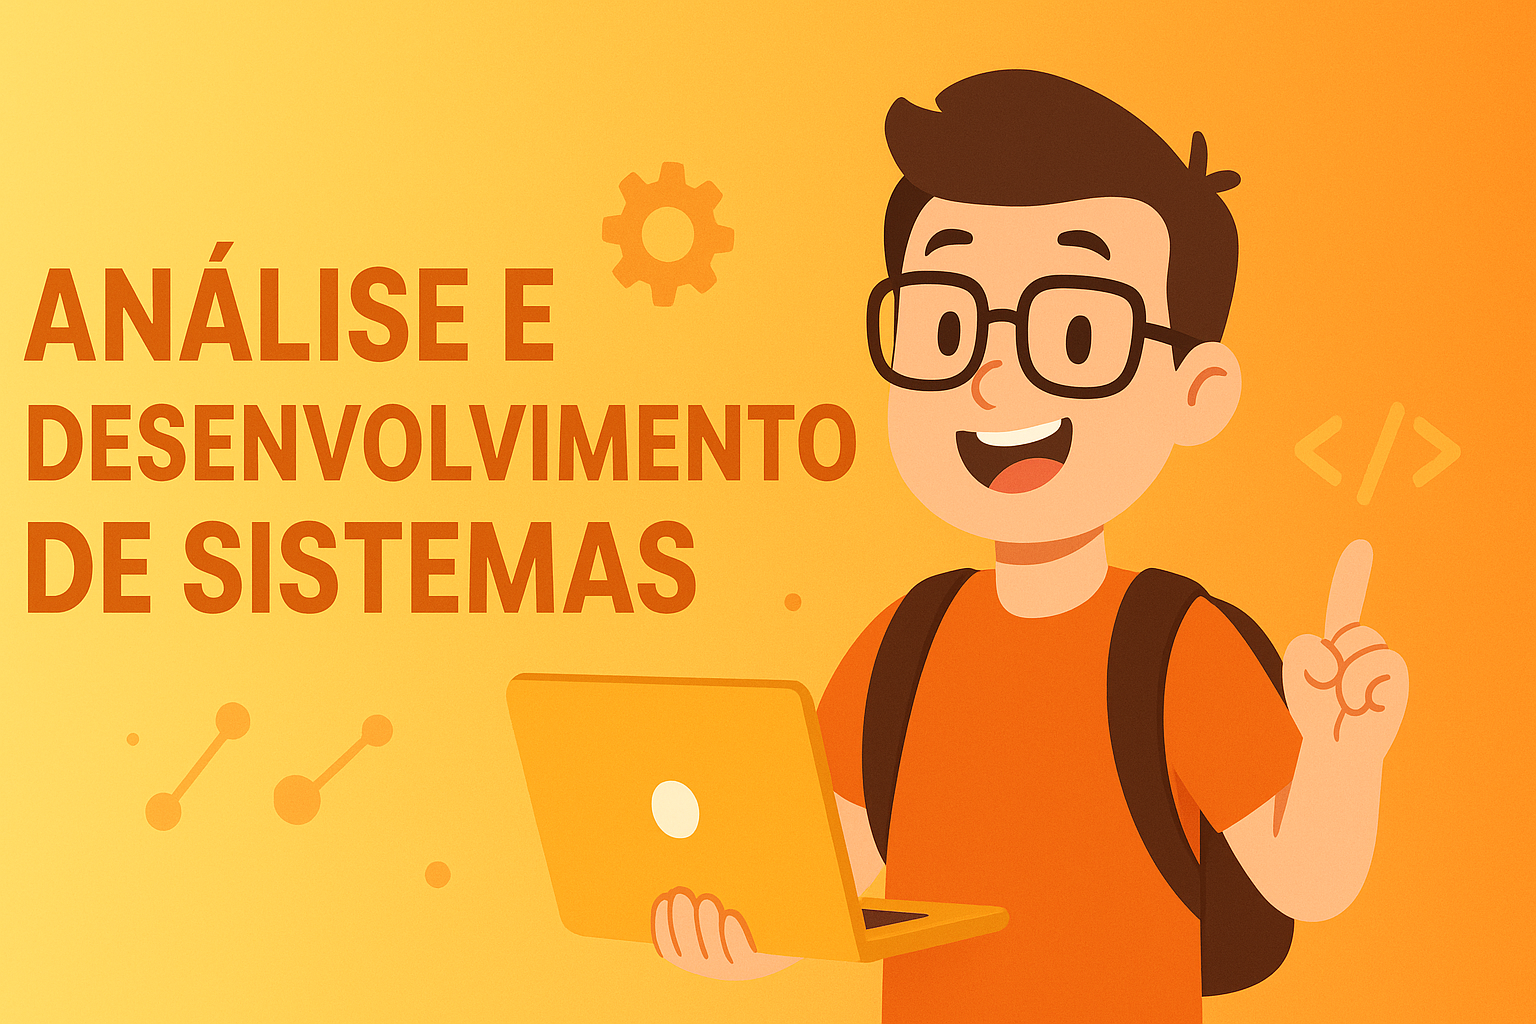
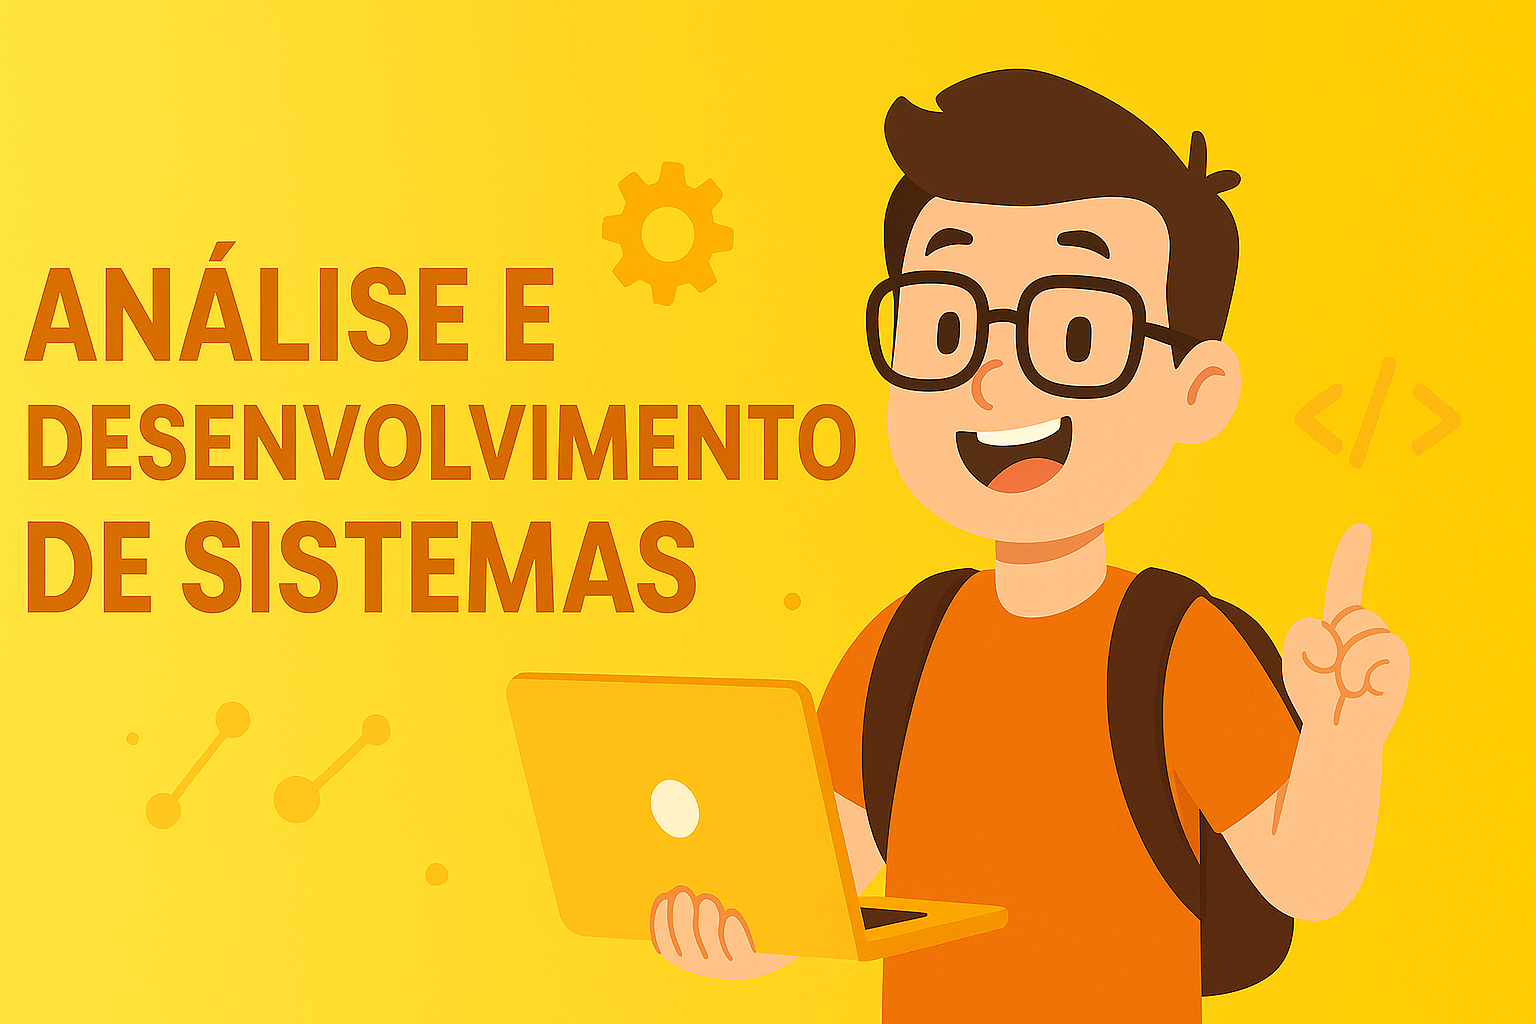
Add files via upload

diff --git a/index.html b/index.html
@@ -101,6 +101,7 @@
     html{
         scroll-behavior: smooth;
     }
+
 </style>
 <body>
     <figure style="margin: 0px; padding: 0px; cursor:default; border-left: 0px; border-right: 0px; border-style: solid; border-color: #FFCD24;">
@@ -108,7 +109,7 @@
             <img src="ICONES/fotoTurma.jpg" alt="" id="imgFundo">
         </div>
         <div style="height: 50px; position: absolute; top: 160px; text-align: center; width: 100%;">
-            <figcaption style="font-size: 150px; font-family:'Franklin Gothic Medium', 'Arial Narrow', Arial, sans-serif; color: rgb(26, 26, 26);"><b style="margin: auto; "><a href="#" style="text-decoration: none; color: #FFCD24; ">PRONATEC</a></b></figcaption>
+            <figcaption style="font-size: 150px; font-family:'Franklin Gothic Medium', 'Arial Narrow', Arial, sans-serif; color: rgb(26, 26, 26);" id="title"><b style="margin: auto; "><a href="#" style="text-decoration: none; color: #FFCD24; ">PRONATEC</a></b></figcaption>
         </div>
         <div style="width: 100%; height: 50px; position: absolute; top: 310px; text-align: center;">
             <figcaption style="color: rgb(255, 255, 255); font-family: 'Gill Sans', 'Gill Sans MT', Calibri, 'Trebuchet MS', sans-serif; font-size: 16px;"><b><a href="#" style="text-decoration: none; color: rgb(255,255,255);">Análise e Desenvolvimento de Sistemas.</a></b></figcaption>
@@ -134,7 +135,7 @@
                     <a href="https://www.youtube.com/cursoemvideo" target="_blank"><button class="botao">Guanabara</button></a>
                 </div>
                 <div>
-                    <a href="https://pt.wikipedia.org/wiki/Cookie_(inform%C3%A1tica)" target="_blank"><button class="botao">Política de Cookies</button></a>
+                    <a href="inscricao.html"><button class="botao" style="color: #FFCD24;">Inscreva-se já</button></a>
                 </div>
                 <div>
                     <a href="https://sistec.mec.gov.br/login/login" target="_blank"><button class="botao">Portal do Aluno</button></a>
@@ -144,7 +145,7 @@
     </header>
     <div style="text-align: center; padding: 15px; padding-bottom: 15px; background-color: #F6F6F6;">
         <img src="ICONES/logoPronatec.png" alt="" style="cursor: pointer; width: 200px;" class="animacao">
-        <img src="ICONES/logoCedup.png" alt="" class="animacao">
+        <img src="ICONES/logoCedup.png" alt="" class="animacao" style="cursor: pointer;">
     </div>
     
     <div style="overflow: hidden; margin-top: 50px; ">
@@ -177,7 +178,7 @@
         </div>
         
     </div>
-    <div style=" height: 700px; width: 100%; display: inline-flex; background: linear-gradient(90deg,rgba(255, 219, 102, 1) 0%, rgba(255, 144, 31, 1) 100%); width: 100%; box-shadow: 5px 5px 5px rgba(0, 0, 0, 0.174);" id="db">
+    <div style=" height: 700px; width: 100%; display: inline-flex; background: linear-gradient(90deg,rgba(255, 219, 102, 1) 0%, #FFCD01 100%); width: 100%; box-shadow: 5px 5px 5px rgba(0, 0, 0, 0.174);" id="db">
         <div style="padding-left: 210px; padding-top: 3%;">
             
             <div style="width: 600px; text-align: justify; font-size: 18px;">
@@ -222,14 +223,14 @@
                     <a href="https://www.youtube.com/cursoemvideo" target="_blank"><button class="botao">Guanabara</button></a>
                 </div>
                 <div>
-                    <a href="https://pt.wikipedia.org/wiki/Cookie_(inform%C3%A1tica)" target="_blank"><button class="botao">Política de Cookies</button></a>
+                    <a href="inscricao.html"><button class="botao">Inscreva-se já</button></a>
                 </div>
                 <div>
                     <a href="https://sistec.mec.gov.br/login/login" target="_blank"><button class="botao">Portal do Aluno</button></a>
                 </div>
             </div>
             <div style="margin-top: 30px; color: rgb(26, 26, 26);">
-                <p style="font-family: 'Gill Sans', 'Gill Sans MT', Calibri, 'Trebuchet MS', sans-serif; font-weight: 700; font-size: 14px;" id="fone">Fone: (49) 99999-9999 | example@gmail.com <br>R. Assis Brasil, 119 - Maria Goretti, <br>Chapecó - SC, 89801-355</p>
+                <p style="font-family: 'Gill Sans', 'Gill Sans MT', Calibri, 'Trebuchet MS', sans-serif; font-weight: 700; font-size: 14px;" id="fone">Fone: (49) 2049-7796 | cedupchapeco@sdr.sc.gov.br <br>R. Assis Brasil, 119 - Maria Goretti, <br>Chapecó - SC, 89801-355</p>
             </div>
             <footer>
                 <p style="font-family: 'Gill Sans', 'Gill Sans MT', Calibri, 'Trebuchet MS', sans-serif;"><i>@_matheus.049</i></p>

diff --git a/inscricao.html b/inscricao.html
@@ -1,0 +1,86 @@
+<!DOCTYPE html>
+<html lang="pt-br">
+<head>
+    <meta charset="UTF-8">
+    <meta name="viewport" content="width=device-width, initial-scale=1.0">
+    <title>Cadastro</title>
+    <link rel="shortcut icon" href="ICONES/logoPronatec.png" type="image/x-icon">
+    <style>
+        body{
+            background: linear-gradient(90deg,rgba(255, 219, 102, 1) 0%, rgba(255, 144, 31, 1) 100%); 
+            background-image: url(ICONES/banne2.png);
+            background-repeat: no-repeat;
+            background-size: 100%;
+        }
+        .input{
+            border:0;
+            border-radius: 5px;
+            width: 400px;
+            height: 40px;
+            font-size: 18px;
+            padding-left: 20px;
+        }
+        .animacao:hover{
+            transform: scale(1.05);
+        }
+        .animacao{
+            transition: transform 0.2s ease;
+        }
+        header{
+        position: fixed;
+        top: 0;
+        left: 0;
+        background-color: rgb(255, 255, 255);
+        width: 100%;
+        height: 55px;
+        box-shadow: 5px 5px 5px rgba(0, 0, 0, 0.304);
+        }
+        #logoCedup{
+        width: 260px;
+        margin-top: 3px;
+        }
+        .botao{
+        background-color: rgba(240, 248, 255, 0);
+        border: 0px;
+        font-family:'Gill Sans', 'Gill Sans MT', 'Calibri', 'Trebuchet MS', sans-serif;
+        font-weight: 700;
+        color: rgb(26, 26, 26);
+        margin-left: 10px;
+        margin-right: 10px;
+        transition: transform 0.2s ease;
+        cursor: pointer;
+        font-size: 18px;
+        }
+        .botao:hover{
+        transform: scale(1.05);
+        color:#012c81;
+        }
+    </style>
+</head>
+<body>
+    <header style="background-color: #F6F6F6;">
+        <div id="divCoife">
+            <a href="index.html"><img src="ICONES/logoPronatec3.png" alt="" id="logoCedup" style="cursor: pointer;"></a>
+            <div style="display: inline-flex; margin-top: 15px;">
+                <div>
+                    <a href="index.html"><button class="botao">Página inicial</button></a>
+                </div>
+            </div>
+        </div>
+    </header>
+    <div id="main" style="width: 500px; height: 500px; background: linear-gradient(45deg, rgb(255, 195, 31), rgb(250, 198, 54)); margin: auto; box-shadow: 5px 5px 5px rgba(0, 0, 0, 0.144); border-radius: 10px; margin-top: 10%; text-align: center;">
+        <div >
+            <img src="ICONES/logoCedup.png" alt="" style="margin-top: 20px;">
+        </div>
+        <div style="text-align: center;">
+            <input type="text" class="input" style="margin-top: 20px; " placeholder="Nome Completo">
+            <input type="text" class="input" style="margin-top: 30px;" placeholder="exemplo@gmail.com">
+            <input type="text" class="input" style="margin-top: 30px;" placeholder="Telefone">
+        </div>
+        <div>
+            <button style="width: 400px; height: 40px; border: 0px; border-radius: 10px; margin-top: 50px; font-size: large; background-color: #FDBA10; cursor: pointer;" class="animacao">Enviar Inscrição</button>
+        </div>
+        <p style="font-family: 'Gill Sans', 'Gill Sans MT', Calibri, 'Trebuchet MS', sans-serif; font-weight: 700; font-size: 16px; margin-top: 30px;" id="fone">(49) 2049-7796 | cedupchapeco@sdr.sc.gov.br </p>
+    
+</body>
+</html>
